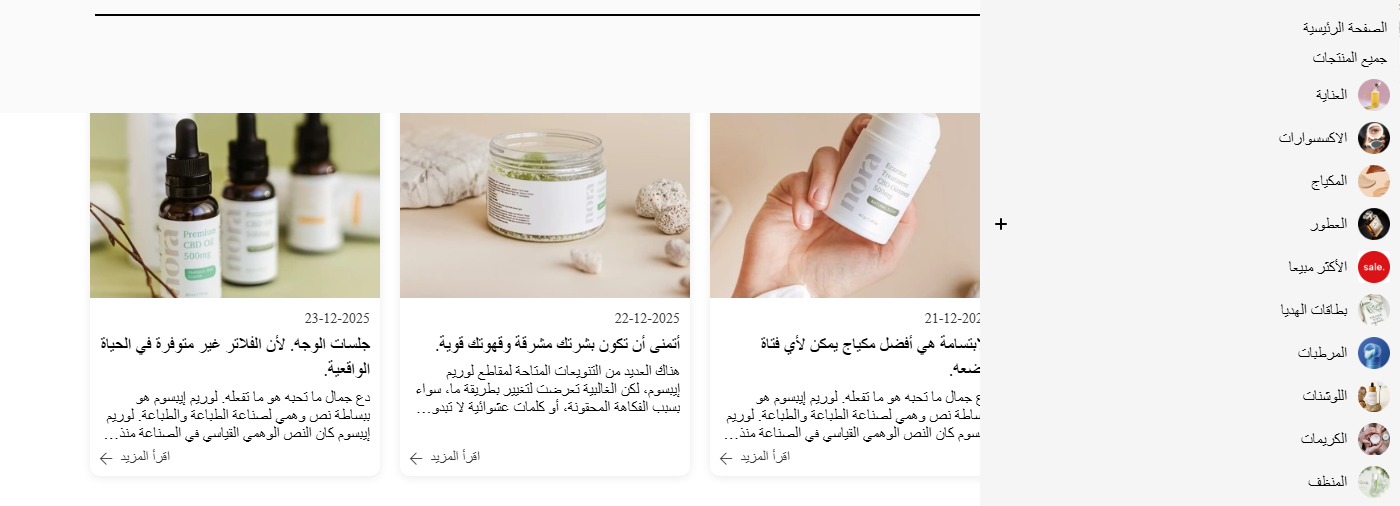
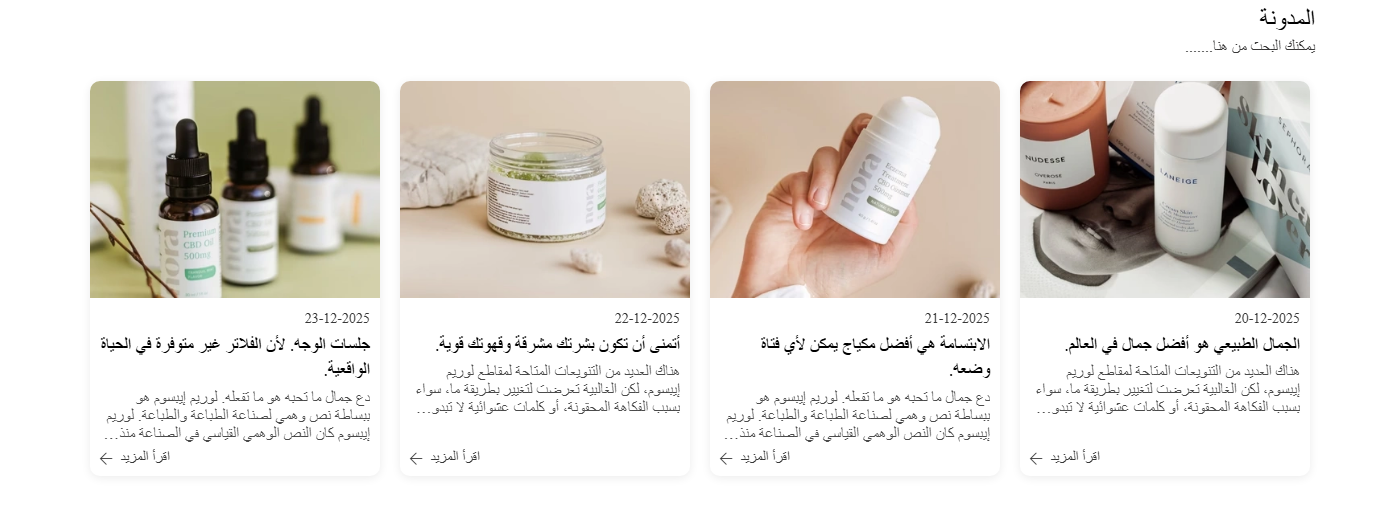
Replace section screenshots without open side menu or search overlay.

diff --git a/capture_sections.py b/capture_sections.py
@@ -40,6 +40,76 @@ SECTIONS = [
 ]
 
 
+HIDE_UI_JS = r"""
+() => {
+  // Close sliding side menu if API exists
+  try {
+    if (window.slidingMenu && typeof window.slidingMenu.close === 'function') {
+      window.slidingMenu.close();
+    }
+  } catch (e) {}
+  try {
+    if (typeof closeSlidingMenu === 'function') closeSlidingMenu();
+  } catch (e) {}
+  try {
+    if (typeof closeSearchBox === 'function') closeSearchBox();
+  } catch (e) {}
+
+  const hide = (el) => {
+    if (!el) return;
+    el.style.setProperty('display', 'none', 'important');
+    el.style.setProperty('visibility', 'hidden', 'important');
+    el.style.setProperty('opacity', '0', 'important');
+    el.style.setProperty('pointer-events', 'none', 'important');
+    el.setAttribute('aria-hidden', 'true');
+    el.classList.remove('active', 'open', 'show', 'is-open', 'sm-open');
+  };
+
+  [
+    '#sliding-menu',
+    '#sidenav-overlay',
+    '.slide-menu',
+    '.sliding-menu',
+    '[class*="slide-menu"]',
+    '.sub-menu-block',
+    '.dropdown-menu.show',
+    '.sm-search-div',
+    '.sm-search-div.show',
+    '.sm-search-div.active',
+    '.search-down-div',
+    '.autocomplete-items',
+  ].forEach((sel) => document.querySelectorAll(sel).forEach(hide));
+
+  // Clear hover states that keep mega-menu open
+  document.querySelectorAll('.top-level-link, .main-nav > li').forEach((el) => {
+    el.classList.remove('hover', 'open', 'active', 'show');
+  });
+
+  // Force animations visible + unstick header
+  document.querySelectorAll('.scroll-animate').forEach((el) => {
+    el.classList.add('animated', 'in-view', 'visible');
+    el.style.opacity = '1';
+    el.style.transform = 'none';
+    el.style.visibility = 'visible';
+  });
+  const h = document.querySelector('header.header-head');
+  if (h) {
+    h.style.setProperty('position', 'relative', 'important');
+    h.style.setProperty('top', '0', 'important');
+  }
+  document
+    .querySelectorAll('[class*="whatsapp"], .back-to-top, #backToTop, .floating-whatsapp')
+    .forEach(hide);
+}
+"""
+
+
+async def hide_overlays(page):
+    await page.mouse.move(0, 0)
+    await page.keyboard.press("Escape")
+    await page.evaluate(HIDE_UI_JS)
+
+
 async def main():
     async with async_playwright() as p:
         browser = await p.chromium.launch(headless=True)
@@ -47,26 +117,20 @@ async def main():
         print("goto…")
         await page.goto(URL, wait_until="networkidle", timeout=120000)
         await page.wait_for_timeout(2500)
+        await hide_overlays(page)
+        await page.wait_for_timeout(500)
 
-        # Force animations visible + unstick header
-        await page.evaluate(
+        # Verify menu is gone
+        menu_state = await page.evaluate(
             """() => {
-            document.querySelectorAll('.scroll-animate').forEach(el => {
-              el.classList.add('animated','in-view','visible');
-              el.style.opacity = '1';
-              el.style.transform = 'none';
-              el.style.visibility = 'visible';
-            });
-            const h = document.querySelector('header.header-head');
-            if (h) {
-              h.style.setProperty('position','relative','important');
-              h.style.setProperty('top','0','important');
-            }
-            document.querySelectorAll('[class*=\"whatsapp\"], .back-to-top, #backToTop').forEach(el => {
-              el.style.setProperty('display','none','important');
-            });
+            const m = document.getElementById('sliding-menu');
+            if (!m) return {missing:true};
+            const r = m.getBoundingClientRect();
+            const s = getComputedStyle(m);
+            return {display:s.display, visibility:s.visibility, w:Math.round(r.width), h:Math.round(r.height), x:Math.round(r.left)};
         }"""
         )
+        print("menu_state", menu_state)
 
         for key, target in SECTIONS:
             if target.startswith("css="):
@@ -75,37 +139,56 @@ async def main():
                 sel = f'[section-id="{target}"]'
             loc = page.locator(sel).first
             try:
+                await hide_overlays(page)
                 await loc.scroll_into_view_if_needed(timeout=15000)
-                await page.wait_for_timeout(400)
-                # expand explore etc.
+                await page.wait_for_timeout(350)
+                # Only unhide scroll-animate within the target — never force-show overlays
                 await page.evaluate(
                     """(sel) => {
                     const el = document.querySelector(sel);
                     if (!el) return;
-                    el.style.opacity='1'; el.style.visibility='visible';
-                    el.querySelectorAll('*').forEach(n => {
-                      n.style.opacity='1'; n.style.visibility='visible'; n.style.transform='none';
+                    el.querySelectorAll('.scroll-animate').forEach(n => {
+                      n.style.opacity='1';
+                      n.style.visibility='visible';
+                      n.style.transform='none';
                     });
                 }""",
                     sel,
                 )
+                await hide_overlays(page)
                 await page.wait_for_timeout(200)
                 box = await loc.bounding_box()
                 if not box or box["height"] < 30:
                     print(f"SKIP {key} height={box}")
                     continue
                 out = OUT / f"{key}.png"
-                # Cap very tall sections
-                if box["height"] > 1600:
-                    await loc.screenshot(path=str(out), timeout=60000)
-                else:
-                    await loc.screenshot(path=str(out), timeout=60000)
+                await loc.screenshot(path=str(out), timeout=60000)
                 size = out.stat().st_size
                 print(f"OK {key} {int(box['width'])}x{int(box['height'])} -> {size} bytes")
             except Exception as e:
                 print(f"FAIL {key}: {e}")
 
-        # Try optional sections not always present
+        # Overview viewport shots for hero gallery (menu closed)
+        await hide_overlays(page)
+        await page.evaluate("window.scrollTo(0,0)")
+        await page.wait_for_timeout(400)
+        await hide_overlays(page)
+        overview = OUT.parent
+        await page.screenshot(path=str(overview / "preview-hero.png"), full_page=False)
+
+        # products tabs area
+        await page.locator('[section-id="e52ee2c2-950c-4b2c-965d-ba16345dc864"]').first.scroll_into_view_if_needed()
+        await hide_overlays(page)
+        await page.wait_for_timeout(300)
+        await page.screenshot(path=str(overview / "preview-products.png"), full_page=False)
+
+        # before-after area
+        await page.locator('[section-id="ff1296e3-380a-45a5-9cc6-690b70d46c77"]').first.scroll_into_view_if_needed()
+        await hide_overlays(page)
+        await page.wait_for_timeout(300)
+        await page.screenshot(path=str(overview / "preview-before-after.png"), full_page=False)
+        print("overview shots refreshed")
+
         optional = [
             ("ticker", ".ticker-section, [class*='ticker']"),
             ("reels-section", ".reels-section, [class*='reels-section']"),
@@ -117,7 +200,9 @@ async def main():
                 if await loc.count() == 0:
                     print(f"MISS {key}")
                     continue
+                await hide_overlays(page)
                 await loc.scroll_into_view_if_needed(timeout=5000)
+                await hide_overlays(page)
                 await page.wait_for_timeout(300)
                 out = OUT / f"{key}.png"
                 await loc.screenshot(path=str(out), timeout=30000)
